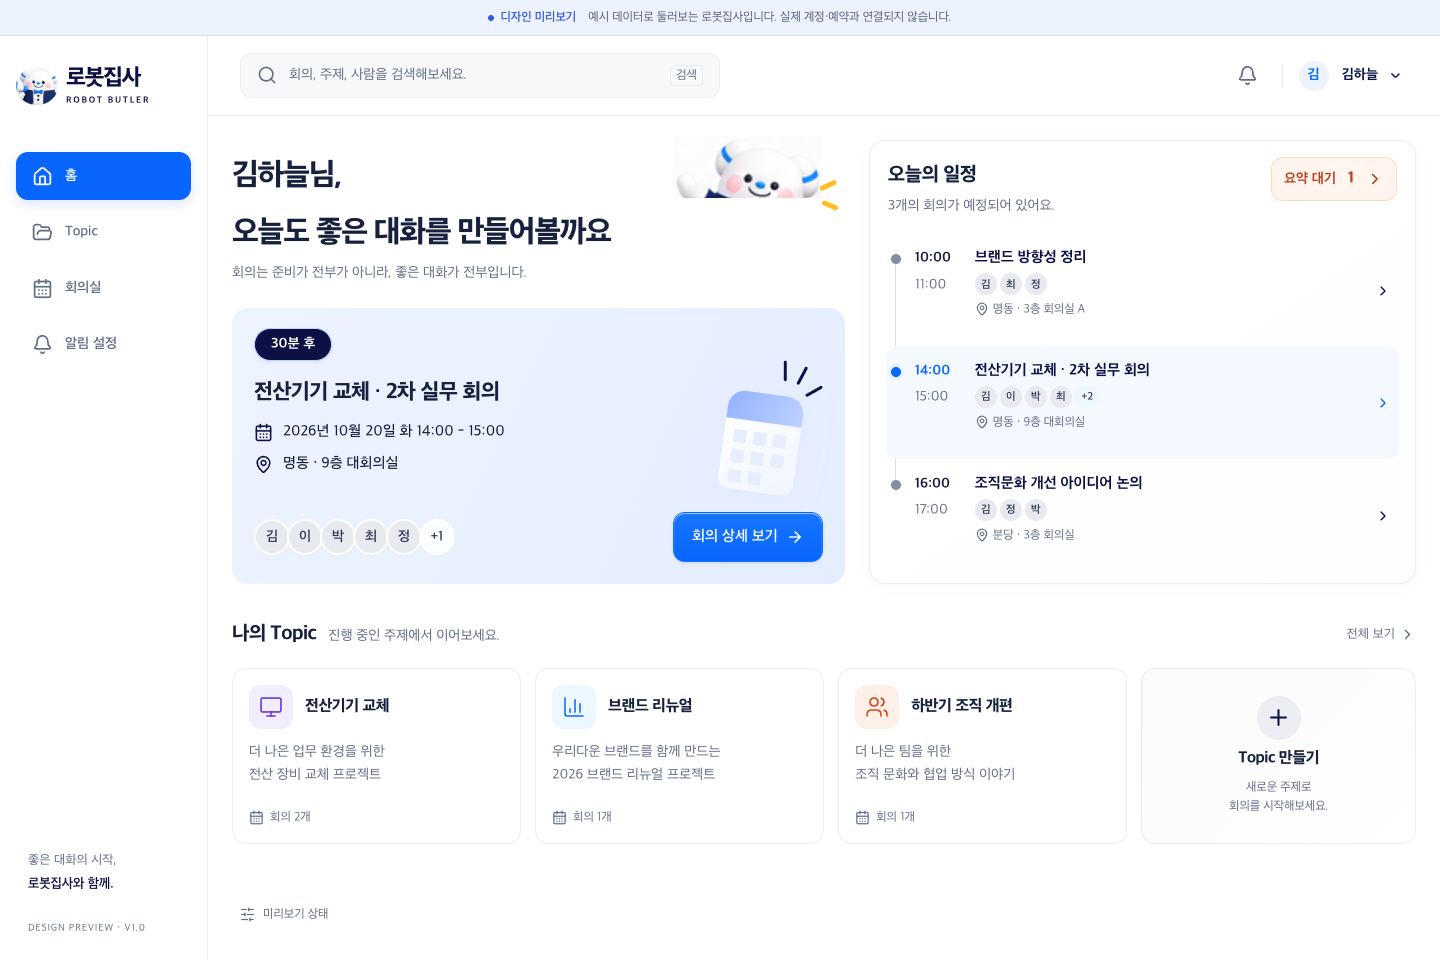
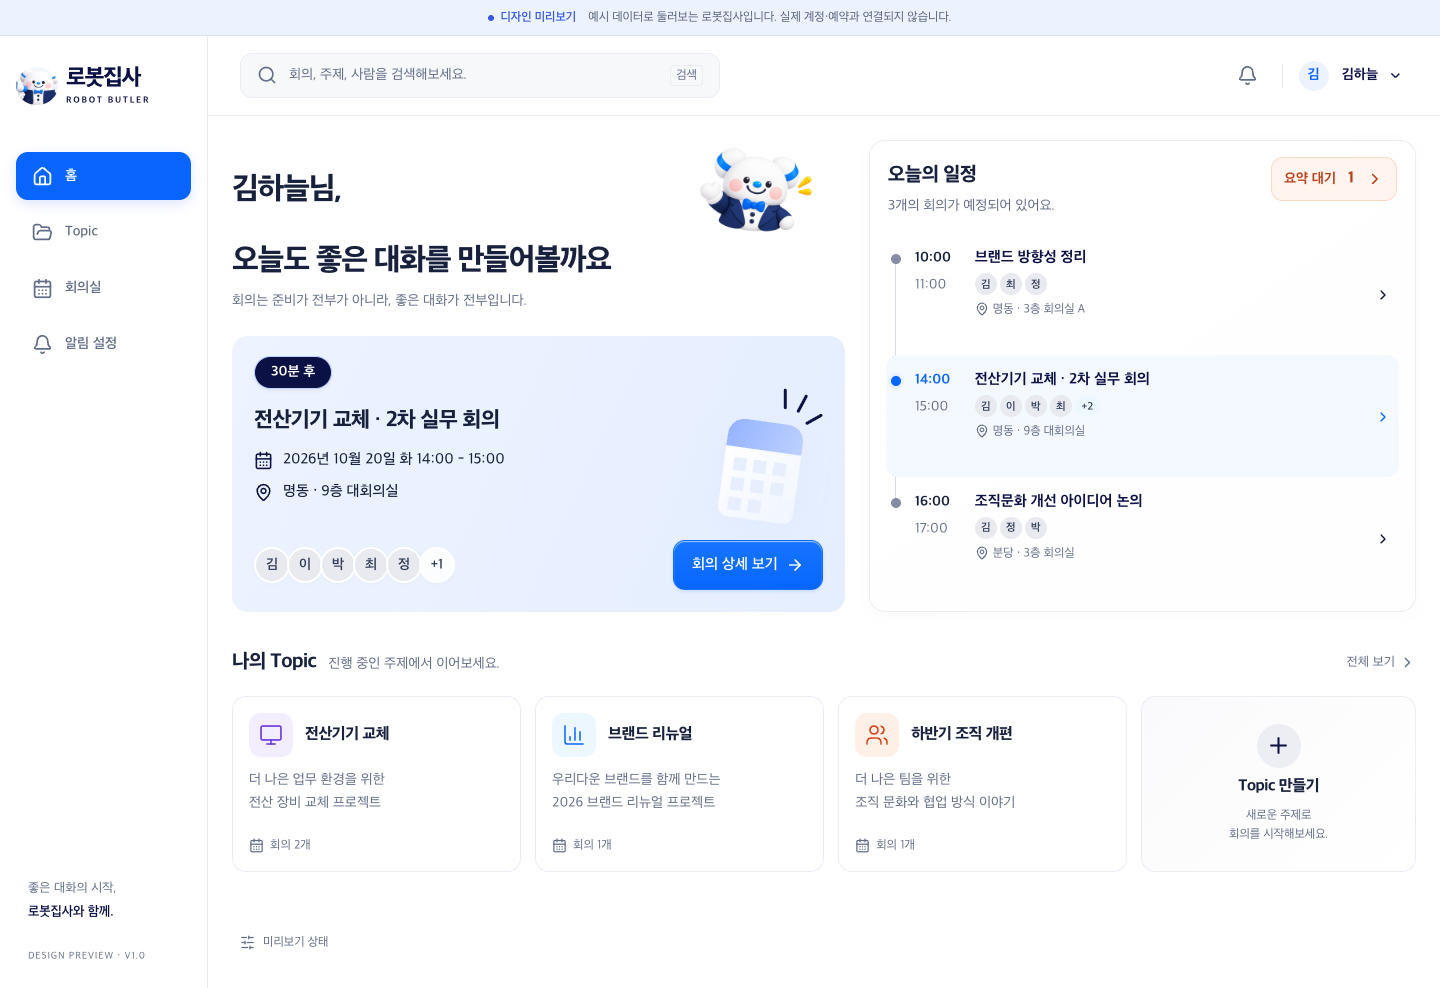
Restore complete home mascot with transparent asset

diff --git a/src/features/home/home.css b/src/features/home/home.css
@@ -39,7 +39,7 @@
   display: flex;
   align-items: center;
   justify-content: space-between;
-  height: 72px;
+  min-height: 100px;
 }
 .home-page .greeting-mascot {
   display: block;
@@ -47,42 +47,24 @@
   background: transparent;
   border-radius: 0;
   flex: 0 0 164px;
-  height: 80px;
+  height: 100px;
   margin-right: 8px;
 }
 .home-page .greeting-mascot .mascot {
   border-radius: 0;
 }
 .mascot-home {
-  width: 150px;
-  height: 80px;
-  clip-path: inset(0 0 18px 0);
+  width: 100%;
+  height: 100%;
+  overflow: visible;
 }
 .mascot-home img {
-  width: 2304px;
-  left: -1665px;
-  top: -126px;
-}
-.greeting-rays {
-  position: absolute;
-  right: 0;
-  top: 47px;
-  width: 18px;
-  height: 5px;
-  border-radius: 4px;
-  background: #ffbc24;
-  transform: rotate(-25deg);
-}
-.greeting-rays:after {
-  content: '';
-  position: absolute;
-  width: 17px;
-  height: 5px;
-  border-radius: 4px;
-  background: #ffbc24;
-  top: 19px;
-  left: -6px;
-  transform: rotate(48deg);
+  position: static;
+  display: block;
+  width: 100%;
+  height: 100%;
+  max-width: 100%;
+  object-fit: contain;
 }
 .greeting-question {
   display: block;

diff --git a/src/components/Brand.tsx b/src/components/Brand.tsx
@@ -1,4 +1,5 @@
 import board from '../../docs/design/assets/01-brand-and-entry.png';
+import homeMascot from '../assets/home-mascot.png';
 // Clip only the approved character from the supplied board; never render a screen as UI.
 export function Mascot({
   small = false,
@@ -9,7 +10,7 @@ export function Mascot({
 }) {
   return (
     <span className={small ? 'mascot mascot-logo' : `mascot mascot-${pose}`} aria-hidden="true">
-      <img src={board} alt="" draggable="false" />
+      <img src={!small && pose === 'home' ? homeMascot : board} alt="" draggable="false" />
     </span>
   );
 }

diff --git a/src/features/home/HomePage.tsx b/src/features/home/HomePage.tsx
@@ -18,7 +18,6 @@ export function HomePage({ workspace }: { workspace: Workspace }) {
                 <span>{data.user.name}님,</span>
                 <span className="greeting-mascot">
                   <Mascot pose="home" />
-                  <span className="greeting-rays" />
                 </span>
               </span>
               <span className="greeting-question">오늘도 좋은 대화를 만들어볼까요</span>

diff --git a/docs/IMPLEMENTATION.md b/docs/IMPLEMENTATION.md
@@ -2,7 +2,7 @@
 
 ## 홈 시안 정합성 — 2026-10-20
 
-브랜치 `task/home-design-fidelity`. 사용자 추가 홈 이미지에 맞춰 인사말/회의와 일정의 두 열 배치, 달력 장식, 홈 전용 파랑·네이비, 요약 대기 표시, 참석자 원형 아이콘과 작은 Topic 카드를 반영했다. 이미지 속 날짜·숫자를 복사하지 않고 기존 데이터와 권한 규칙을 유지했다. 미정인 Topic 멤버 수는 표시하지 않는다. 캐릭터는 기존 승인 보드에서 글자가 없는 상단만 잘라 사용하며 작은 화면에서는 겹치지 않게 배치했다.
+브랜치 `task/home-design-fidelity`. 사용자 추가 홈 이미지에 맞춰 인사말/회의와 일정의 두 열 배치, 달력 장식, 홈 전용 파랑·네이비, 요약 대기 표시, 참석자 원형 아이콘과 작은 Topic 카드를 반영했다. 이미지 속 날짜·숫자를 복사하지 않고 기존 데이터와 권한 규칙을 유지했다. 미정인 Topic 멤버 수는 표시하지 않는다. 캐릭터는 승인 보드의 홈 포즈를 기준으로 가려진 부분을 복원한 투명 에셋을 사용한다. 전체 이미지가 보이도록 contain으로 표시하며 작은 화면에서도 자르지 않는다.
 
 1440×900·1024×768·390×844에서 직접 캡처 비교. 캡처: [PC](qa/home-fidelity/home-desktop.png), [태블릿](qa/home-fidelity/home-tablet.png), [모바일](qa/home-fidelity/home-mobile.png). 전체 검증 결과는 해당 PR 검사에 기록한다.
 

diff --git a/docs/design/CHANGELOG.md b/docs/design/CHANGELOG.md
@@ -1,5 +1,12 @@
 # 변경 이력
 
+## 홈 캐릭터 잘림 수정 — 2026-10-20
+
+- 사용자가 지적한 캐릭터 하단 잘림을 수정. 보드 확대·오프셋·clip-path 방식을 제거하고 투명 복원 에셋 전체를 표시.
+- 내장 imagegen 편집 도구 사용. 프롬프트 요지: 승인 홈 캐릭터의 정체성·파란 귀·분홍 볼·네이비 재킷을 유지하고, 화면 왼쪽의 흔드는 손과 오른쪽 노란 선을 복원하며 글자·배경을 제거하고 완전한 상반신을 투명 여백 안에 배치.
+- 에셋: `src/assets/home-mascot.png`. 원본에서 글자에 가려진 부분은 복원된 부분이며 원본 픽셀과 동일하다는 의미는 아님.
+- PC·태블릿·모바일 홈 캡처와 빌드 확인.
+
 ## 홈 시안 정합성 보정 — 2026-10-20
 
 - 사용자가 추가 첨부한 홈 이미지를 02 홈의 배치·색상·장식 기준으로 반영. 원본은 `assets/reference-home-user-2026-10-20.png`에 보존.
